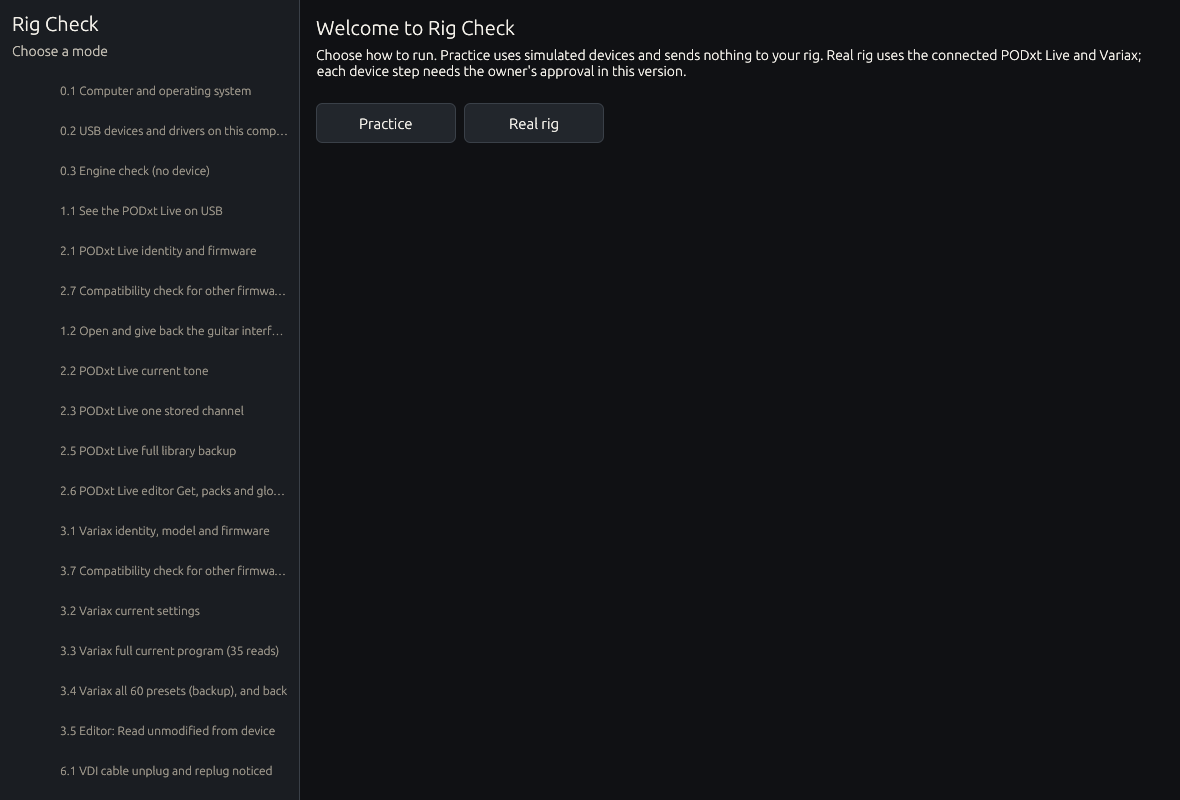
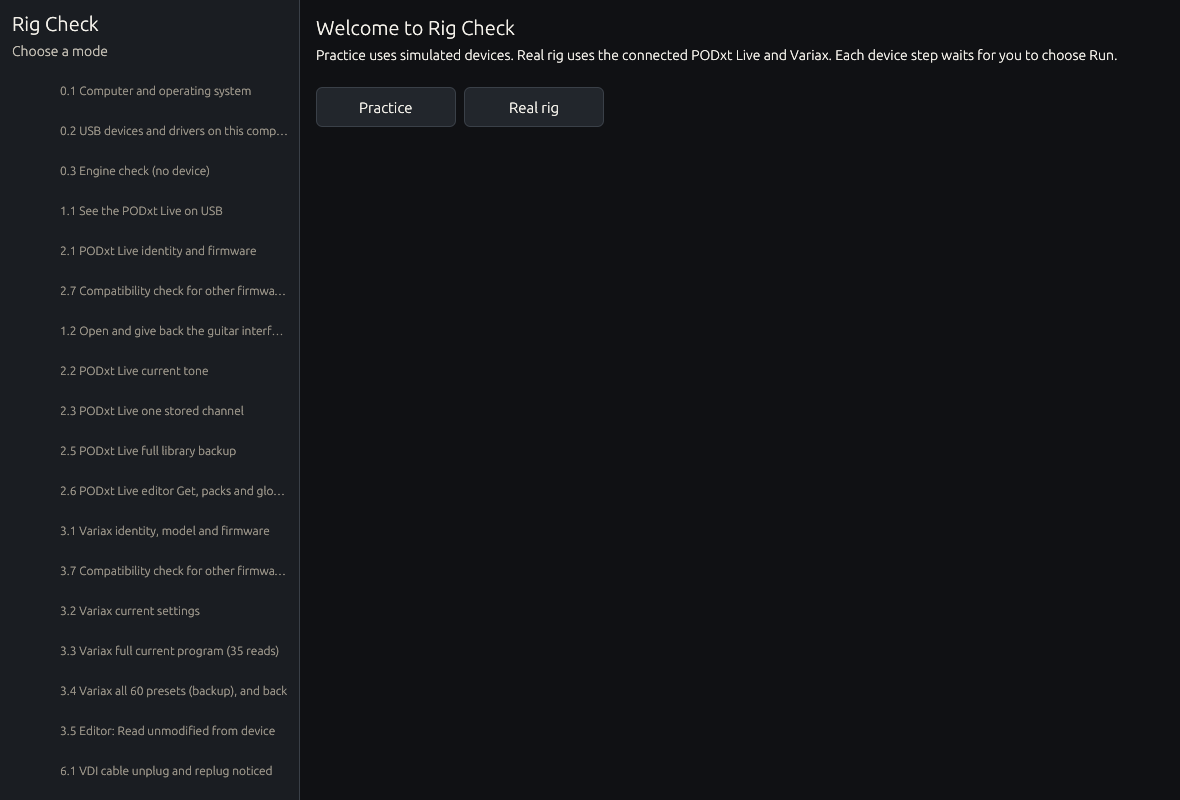
Refresh the Rig Check wizard mockups from the headless renderer (#248)
Redraw the 14 screens with rig-check --mockups from a gui build that
leaves the usb feature off. Thirteen files match the previous bytes.
The choose-mode picture now uses the current Linux sentence. Record
the source revision, the exit before port construction, and the
remaining review gaps.

Changed region(s): [[0.2746, 0.0625, 0.9763, 0.0938], [0.4271, 0.125, 0.4881, 0.1875], [0.3051, 0.125, 0.3661, 0.1875]]

diff --git a/docs/design/rig-check-wizard-review.md b/docs/design/rig-check-wizard-review.md
@@ -1,8 +1,9 @@
 # Rig Check wizard — owner review checklist
 
 [#248](https://github.com/guirossibrum/VariaxWorkbench/issues/248).
-Compared on `c69b903` (2026-11-26). This checklist records the current
-offline wizard. It does not change the screens.
+Redrawn on 2026-11-26 from source
+`e2a0e1a303dc7e1502247cb70105fb4a5a304ba8`. This checkpoint does not change
+Rust sources. It records the redraw. It is not owner approval.
 
 Screen index and the three open layout questions:
 [docs/rig-check/design.md](../rig-check/design.md).
@@ -18,28 +19,94 @@ app-shell delivery. The 2026-11-25 #267 decision releases device and guided
 steps for the owner's first real run. Mark each row below. A merge of the
 wizard code leaves this issue open until those marks exist.
 
-## What the pictures are
+## Provenance
 
-All 14 PNGs are 1180×800. `raster::render` draws them at one pixel per
-point (`src/rig_check/gui/raster.rs`). The window asks for the same logical
-size (`src/rig_check/bin.rs`). The last picture commit is `c7ede9f`
-(2026-11-25). Later commits `f0d255e` (#274) and `11e529d` (#290) changed
-choose-mode and step copy. The PNGs still show the earlier copy.
+| Item | Value |
+| --- | --- |
+| Source revision | `e2a0e1a303dc7e1502247cb70105fb4a5a304ba8`. Rust files are unchanged in this checkpoint. |
+| Date | 2026-11-26 |
+| Host | Linux x86_64 |
+| Compiler | rustc 1.99.1 (58cf8f9c3 2026-10-13) |
+| Build | `cargo build --offline --no-default-features --features gui --bin rig-check` |
+| Shared build path | `/home/grbrum/Documents/Code/VariaxWorkbench/target/shared-builds/lane2` |
+| Enabled features | `gui`, `podxt-table`. The `usb` feature was off for the draw. Recorded in `debug/.fingerprint/variax-workbench-9b142a1e1738d4a5/bin-rig-check.json`. |
+| Binary | `target/shared-builds/lane2/debug/rig-check` at the draw. `ldd` listed no libusb. Dep-info named this worktree (197 paths) and no file from the main checkout. The later `--all-features` test build replaced that executable, so the path links libusb after the suite. The draw fingerprint above still records `gui` and `podxt-table`. |
+| Command | `rig-check --mockups` into an empty directory. Exit 0. About 7.0 seconds. A second empty directory produced the same 14 SHA-256 values. |
+| Inputs | `mockup_states()` in `src/rig_check/gui/mod.rs`. Synthetic step records, the fixed save-notice strings, and the summary time `2026-11-25 22:05:00 UTC`. No device, capture, or private report. |
+| Previous bytes | All 14 files were last committed in `c7ede9f`. Thirteen of this redraw match those bytes. `01-choose-mode.png` changed (126,069 bytes to 117,625; 18,255 pixels differ). |
 
-`01-choose-mode.png` says Practice "sends nothing to your rig" and that each
-device step "needs the owner's approval in this version." Current Linux
-source says: "Practice uses simulated devices. Real rig uses the connected
-PODxt Live and Variax. Each device step waits for you to choose Run."
-Windows and a Mac build without USB support use their own computer-check
-sentences. Those three sentences have no picture.
+All 14 PNGs are 1180×800, 8-bit RGBA. `raster::render` draws them at one
+pixel per point (`src/rig_check/gui/raster.rs`). The window asks for the
+same logical size (`src/rig_check/bin.rs`).
 
-Step bodies for 0.2 and 1.2, and the title and SEE line for 6.2, also
-changed in `11e529d`. None of the 14 pictures is that card.
+SHA-256 of this redraw, identical across the two runs:
 
-Most pictures are drawn with `focus_armed = false`, so the focus ring is
-absent. `11-step-result.png` leaves focus armed, and Continue is the
-highlighted control. Keyboard defaults below come from the headless tests,
-which press keys on a live widget tree.
+| File | SHA-256 |
+| --- | --- |
[14 lines of base64/hex data omitted]
+
+`01-choose-mode.png` now reads: "Practice uses simulated devices. Real rig
+uses the connected PODxt Live and Variax. Each device step waits for you to
+choose Run." The `c7ede9f` file said Practice "sends nothing to your rig"
+and that each device step "needs the owner's approval in this version."
+The buttons remain Practice and Real rig. `mockup_states` sets
+`focus_armed` false, so the picture has no focus ring.
+
+This Linux binary contains that Linux sentence. It does not contain the
+Windows sentence "This computer runs computer-only checks." or the Mac
+sentence "This Mac runs computer-only checks." Those are `cfg!` branches in
+`Wizard::central`.
+
+`05-running.png` shows Elapsed 00:02. `06-listening.png` shows Elapsed 00:02
+and GET READY 8 s. Both runs matched those digits and matched the `c7ede9f`
+bytes. The digits come from `Instant::now()` at state construction, then
+whole seconds when that screen is rastered (`src/rig_check/gui/mod.rs`).
+A draw that reaches those screens on a different whole second would change
+those two files.
+
+## Exit before port construction
+
+`main` calls `options()` first (`src/rig_check/bin.rs`). With `feature =
+"gui"`, the `--mockups` arm inside `options()` calls `write_mockups` and
+then `std::process::exit(0)`:
+
+```rust
+"--mockups" => {
+    let dir = PathBuf::from(args.next().ok_or(USAGE)?);
+    for path in rig_check::gui::write_mockups(&dir)? {
+        println!("{}", path.display());
+    }
+    std::process::exit(0);
+}
+```
+
+That exit is the end of the process. `RealPort::new` runs only on the paths
+that continue after `options()` returns: `window()` (the native window,
+when `--text` is absent) and the text path in `main`. Those are the only
+`RealPort::new` call sites in `bin.rs` (the `window` closure and the text
+path). `eframe::run_native` is in `window()` only.
+
+`write_mockups` (`src/rig_check/gui/mod.rs`) calls `mockup_states`,
+`raster::render`, and `save_new`. The files under `src/rig_check/gui/` do
+not name `RealPort`, `FileSource`, `rusb`, or a USB open. `raster::render`
+builds an `egui::Context` and tessellates at 1.0. `RealPort::new`
+(`src/rig_check/port.rs`) is the constructor that, outside tests, installs
+`RootFs { root: "/" }`. The mockup path does not call it. With the `usb`
+feature off, the `UsbInterfaceLink` field on `RealPort` is not compiled
+(`cfg(all(feature = "usb", not(target_os = "macos")))`).
 
 ## How to mark a row
 
@@ -51,23 +118,39 @@ screenshot. Do not commit those screenshots.
 
 | # | Criterion | Evidence on this head | Still needed | Mark |
 | --- | --- | --- | --- | --- |
-| 1 | Choose Practice or Real rig, with no mode stored until a choice | `01-choose-mode.png`. Source focuses **Practice**, so Enter selects Practice. The mode field stays empty until that press. | Private screenshot of the current Linux sentence, and of the Mac and Windows sentences. Decide whether Enter-on-Practice is an acceptable keyboard default. | |
-| 2 | Start notice: Quit focused, Accept and continue as the other choice. Enter quits. | `02-start-notice.png` shows Quit and Accept and continue. Test `the_start_notice_defaults_to_quit_and_save_needs_the_exact_text` presses Enter and receives `Reply::Accept(false)`. A closed window also refuses the start. | Private screenshot of the focus ring on Quit. The committed PNG hides it. | |
+| 1 | Choose Practice or Real rig, with no mode stored until a choice | `01-choose-mode.png` from this redraw shows the Linux sentence in Provenance. Source focuses **Practice**, so Enter selects Practice. The mode field stays empty until that press. | Private screenshot of the focus ring. The Mac and Windows sentences have no picture: they are compile-time branches, and this binary is Linux. Decide whether Enter-on-Practice is an acceptable keyboard default. | |
+| 2 | Start notice: Quit focused, Accept and continue as the other choice. Enter quits. | `02-start-notice.png` shows Quit and Accept and continue. Byte-identical to `c7ede9f`. Test `the_start_notice_defaults_to_quit_and_save_needs_the_exact_text` presses Enter and receives `Reply::Accept(false)`. A closed window also refuses the start. | Private screenshot of the focus ring on Quit. The committed PNG hides it (`focus_armed` is false). | |
 | 3 | Every step shows its card and waits. Nothing starts the next step by itself. | Card buttons are Skip (focused), Run or Start, Stop the run, and Back when a prior result exists. Enter skips (`the_step_card_shows_its_sections_and_enter_skips`). R runs, Q stops (`keyboard_shortcuts_run_and_stop`). A closed window skips. Practice (`the_channel_operator_runs_practice_mode_from_another_thread`) runs 35 cards and 35 results, and the runner waits at each result. | Private screenshot of a step card with Skip focused. | |
-| 4 | Step card sections: What it does, What you'll see and hear, Risk, with the gate and the steps it needs | `03-step-card-read.png` (step 1.1) and `04-step-card-live.png`. The same test looks for those three headings plus SEE and HEAR. Risk colour follows the level: read and none use the pass green, live uses amber, save uses the danger colour. The word is also on the card. | Owner look at 03 and 04. Card copy for 0.2, 1.2 and 6.2 is newer than the pictures. | |
+| 4 | Step card sections: What it does, What you'll see and hear, Risk, with the gate and the steps it needs | `03-step-card-read.png` (step 1.1) and `04-step-card-live.png`. Both match `c7ede9f` and the current `mockup_states` output. The same test looks for those three headings plus SEE and HEAR. Risk colour follows the level: read and none use the pass green, live uses amber, save uses the danger colour. The word is also on the card. | Owner look at 03 and 04. Cards for 0.2, 1.2 and 6.2 are not among the 14 states, so those bodies are still unpictured. | |
 | 5 | HEAR and SEE at 34 logical points, readable from the guitar | `pub const BIG: f32 = 34.0` in `src/rig_check/gui/mod.rs`. The theme scales logical points by `pixels_per_point`. The pictures are 1×, so 34 points is 34 pixels there. | Private laptop screenshot and private Retina screenshot, from the playing position. No wizard test sets `pixels_per_point` to 2. | |
-| 6 | Running screen: current action, count, elapsed time, Stop, and the "leave the controls alone" notice | `05-running.png` shows step 3.3, "12 of 35 reads", elapsed time and Stop. The sidebar word is RUN. Test `running_shows_latest_action_count_time_and_playing_notice` checks the count, elapsed time, the controls notice, and 15 s / 6 s / 0 s left. | Private screenshot while a count is moving, if the owner wants motion as well as the still picture. | |
-| 7 | Get-ready screen before a physical action. The next step still has its own card. | `06-listening.png`. Design notes in [design.md](../rig-check/design.md). `prepare_action` focuses **OK**. Enter starts the countdown. Skip and Stop are the other buttons. A closed window returns Stop. Detecting the movement can finish the current action. The following step still arrives as its own card. | Owner decision on OK-as-Enter. The design notes say focus starts on Skip. This screen focuses OK. Change belongs in `src/rig_check/gui/mod.rs`. | |
-| 8 | Didn't see it: Skip focused, Try again, Stop | `07-not-seen.png`. `not_seen` focuses Skip. A closed window returns Stop. | Private screenshot with Skip focused. | |
-| 9 | Listening question: Yes, No, Not sure focused, optional note, and the byte-check lines | `08-listening-question.png` is the A/B drop-D question. `question` focuses Not sure. A closed window answers Not sure. | Private screenshot with Not sure focused. | |
-| 10 | Save notice names the exact slot and the backup that protects it. Save stays off until the confirmation matches. Skip is the default. | `09-save-notice.png`: slot "Spank 1 (flash slot 14)", backup step 3.4, file `variax-library/14-Spank-1.bin`, first 12 hex characters of the SHA-256. The type-in line repeats `STORE VARIAX Spank 1`. Enter sends `Reply::Typed(None)` in the start/save test. Source enables Save only when the field equals the confirmation. | Private screenshot of Skip focused, of Save disabled, and of Save enabled after the exact text. The headless test does not press a wrong string and then the exact string. | |
-| 11 | After a step, the result shows the outcome and the SEE values. Continue is focused and returns to the next card, which still waits for Run. Different… records the displayed text. | `11-step-result.png` and `14-display-difference.png`. Practice asserts the SEE lines, Continue and Stop, and that Enter continues. `different_opens_a_field_and_enter_records_exact_text` checks the field. A reported difference fails the step. | Private screenshot of Continue focused, and of the difference field. | |
+| 6 | Running screen: current action, count, elapsed time, Stop, and the "leave the controls alone" notice | `05-running.png` shows step 3.3, "12 of 35 reads", Elapsed 00:02 and Stop. Byte-identical to `c7ede9f`. The sidebar word is RUN. Test `running_shows_latest_action_count_time_and_playing_notice` checks the count, elapsed time, the controls notice, and 15 s / 6 s / 0 s left. | Private screenshot while a count is moving, if the owner wants motion as well as the still picture. The still clock is whole seconds from the draw, as recorded above. | |
+| 7 | Get-ready screen before a physical action. The next step still has its own card. | `06-listening.png` shows GET READY 8 s and Elapsed 00:02. Byte-identical to `c7ede9f`. Design notes in [design.md](../rig-check/design.md). `prepare_action` focuses **OK**. Enter starts the countdown. Skip and Stop are the other buttons. A closed window returns Stop. Detecting the movement can finish the current action. The following step still arrives as its own card. | Owner decision on OK-as-Enter. The design notes say focus starts on Skip. This screen focuses OK. A change belongs in `src/rig_check/gui/mod.rs`. This checkpoint does not make it. | |
+| 8 | Didn't see it: Skip focused, Try again, Stop | `07-not-seen.png`. Byte-identical to `c7ede9f`. `not_seen` focuses Skip. A closed window returns Stop. | Private screenshot with Skip focused. | |
+| 9 | Listening question: Yes, No, Not sure focused, optional note, and the byte-check lines | `08-listening-question.png` is the A/B drop-D question. Byte-identical to `c7ede9f`. `question` focuses Not sure. A closed window answers Not sure. | Private screenshot with Not sure focused. | |
+| 10 | Save notice names the exact slot and the backup that protects it. Save stays off until the confirmation matches. Skip is the default. | `09-save-notice.png`: slot "Spank 1 (flash slot 14)", backup step 3.4, file `variax-library/14-Spank-1.bin`, first 12 hex characters of the SHA-256. The type-in line repeats `STORE VARIAX Spank 1`. Byte-identical to `c7ede9f`. Enter sends `Reply::Typed(None)` in the start/save test. Source enables Save only when the field equals the confirmation. | Private screenshot of Skip focused, of Save disabled, and of Save enabled after the exact text. The headless test does not press a wrong string and then the exact string. | |
+| 11 | After a step, the result shows the outcome and the SEE values. Continue is focused and returns to the next card, which still waits for Run. Different… records the displayed text. | `11-step-result.png` and `14-display-difference.png`. Byte-identical to `c7ede9f`. Practice asserts the SEE lines, Continue and Stop, and that Enter continues. `different_opens_a_field_and_enter_records_exact_text` checks the field. A reported difference fails the step. | Private screenshot of Continue focused, and of the difference field. | |
 | 12 | Progress uses the words PASS, FAIL, SKIP, STOP, N/A and RUN | Visible on `03`, `05`, `10` and `11`. `outcome_tag` in `src/rig_check/gui/mod.rs`. Colour repeats the word. | Owner look at one PASS, one SKIP and the RUN row together. | |
-| 13 | Summary: rig state, counts, result preview, Save report… | `10-summary-preview.png`: "Rig Check finished", the rig paragraph, "10 passed · 0 failed · 1 skipped", the report path, Hide results, Save report…, and one preview line for step 2.3. The preview lists only that line because only the 2.3 fixture has a start time. The Practice test is the full-run evidence: 35 passed. Summary focus starts on the preview button. Save report… is the other button. In tests the save dialog returns "Saving is not available in tests." | Private screenshot of a finished Practice summary whose preview lists the run. The Practice test does not draw `Prompt::Done`. | |
-| 14 | Back reviews an earlier result and the accepted start notice. Return resumes the pending card and sends nothing. | `12-review-result.png`, `13-review-start.png`. Tests `backspace_reviews_previous_results_and_c_resumes_the_same_card`, `first_card_back_shows_the_already_accepted_start_notice`, `review_shows_the_start_notice_accepted_for_this_mac`, and `clicking_a_finished_step_replays_it_without_continuing_the_active_result`. | Private screenshot of Back and of Return to current step. | |
+| 13 | Summary: rig state, counts, result preview, Save report… | `10-summary-preview.png`: "Rig Check finished", the rig paragraph, "10 passed · 0 failed · 1 skipped", the report path, Hide results, Save report…, and one preview line for step 2.3. Byte-identical to `c7ede9f`. The preview lists only that line because only the 2.3 fixture has a start time. The Practice test is the full-run evidence: 35 passed. Summary focus starts on the preview button. Save report… is the other button. In tests the save dialog returns "Saving is not available in tests." | Private screenshot of a finished Practice summary whose preview lists the run. The Practice test does not draw `Prompt::Done`. | |
+| 14 | Back reviews an earlier result and the accepted start notice. Return resumes the pending card and sends nothing. | `12-review-result.png`, `13-review-start.png`. Byte-identical to `c7ede9f`. Tests `backspace_reviews_previous_results_and_c_resumes_the_same_card`, `first_card_back_shows_the_already_accepted_start_notice`, `review_shows_the_start_notice_accepted_for_this_mac`, and `clicking_a_finished_step_replays_it_without_continuing_the_active_result`. | Private screenshot of Back and of Return to current step. | |
 | 15 | Laptop presentation | The wizard's headless path draws one logical size, 1180×800, at 1 pixel per point. The app shell has a separate headless matrix at 1120×760 and 720×640 (`src/app/shell/tests.rs`). That matrix does not open Rig Check. Sidebar titles already truncate at 1180×800. | Owner screenshots of the 14 states in the real window on the laptop. A 1120×760 or 720×640 wizard check belongs in `src/rig_check/gui/tests.rs`. | |
 | 16 | Retina presentation | Shared theme sizes are logical points. Body-canvas and tuning tests in `src/shared/ui/tests.rs` run at `pixels_per_point` 1 and 2. The shell footer test does the same. `raster::render` tessellates at 1.0 and never sets `pixels_per_point`. | Owner screenshots on a Retina display. A wizard test at `pixels_per_point` 2 belongs in `src/rig_check/gui/tests.rs`. | |
-| 17 | Screenshots of each state, kept for this review | The 14 repository PNGs are headless draws through `c7ede9f`. They are the pictures to review, with the copy gaps in rows 1 and 4. | Fresh headless redraw from current master, then private owner screenshots of each state including the focus ring. Redraw and PNG replacement belong with `src/rig_check`. | |
+| 17 | Screenshots of each state, kept for this review | The 14 repository PNGs are this redraw. Thirteen match `c7ede9f`. `01-choose-mode.png` is the current Linux sentence. | Private owner screenshots of each state, including the focus ring. Mac and Windows sentences, cards 0.2, 1.2 and 6.2, and the #297 continuation screens are outside this set. | |
+
+## Remaining gaps
+
+- Owner design approval is still pending. This redraw does not supply it.
+- The focus ring is hidden on 13 of the 14 pictures. Only `11-step-result.png` sets `focus_armed`.
+- The Mac and Windows choose-mode sentences have no picture.
+- Step cards 0.2 ("USB devices and drivers on this computer"), 1.2 ("Open and give back the guitar interface") and 6.2 ("Rig back to its starting state and connections released") are not among the 14 states.
+- Laptop logical sizes and a Retina `pixels_per_point` of 2 are not drawn.
+- Choose-mode still focuses Practice. The get-ready screen still focuses OK, while the design notes say the safe answer starts with focus. Both stay undecided. This checkpoint does not change them.
+- Native-window screenshots stay private owner copies.
+- #297 continuation screens (Resume, Start new, Open last report) are outside this set. `write_mockups` still emits the same 14 names.
+- The clocks on `05-running.png` and `06-listening.png` are whole seconds from the draw. This draw matched the previous bytes. They are not a frozen time fixture.
+- [design.md](../rig-check/design.md) does not name revision `e2a0e1a`. The provenance table above is the record for this redraw.
+
+The three open questions already in design.md (progress list, evidence line,
+Open folder) stay unanswered here.
 
 ## Headless tests read for this comparison
 
@@ -87,27 +170,22 @@ In `src/rig_check/gui/tests.rs`:
 - `clicking_a_finished_step_replays_it_without_continuing_the_active_result`
 - `technical_details_are_hidden_until_opened`
 
-These tests were read at `c69b903`. This checkpoint did not re-run them.
+Re-run on source `e2a0e1a` with Rust unchanged:
+`cargo test --offline --all-features` passed 1,152 tests, 0 failed, 5 ignored
+(library 755 passed and 2 ignored, `variax-reso5-test` 73 passed and 3 ignored,
+`variax-workbench-gui` 297 passed, integration 27 passed).
+`cargo fmt --all -- --check` and
+`cargo clippy --offline --all-features --all-targets -- -D warnings` passed.
+`crates/line6-devices` and `tools/variax-probe` were not edited, so their
+separate suites were not run.
 
-## Outside Lane 2
+## Outside this checkpoint
 
 Lane 2 owns `docs/design/`, `src/shared/ui/`, `assets/ui/`, and the visuals
 of `src/app/shell/` after #213. The wizard implementation is
-`src/rig_check/`. Reported for that owner, with no edit here:
+`src/rig_check/`. This checkpoint does not edit it. Still with that owner:
 
-- Redraw the 14 PNGs from current master so `01-choose-mode.png` and the
-  0.2, 1.2 and 6.2 copy match `11e529d`. Add pictures for the Mac and
-  Windows choose-mode sentences.
-- `prepare_action` focuses OK. The design notes say the safe answer starts
-  with focus.
-- Choose-mode focuses Practice.
-- Extend `mockups_render_headless`, or a neighbour test, to compare a fresh
-  1180×800 render with the committed PNG text, to require the exact save
-  confirmation before Save enables, to draw the summary and look for
-  "Save report…", and to run the wizard at laptop logical sizes and at
-  `pixels_per_point` 2.
-- [design.md](../rig-check/design.md) still says the pictures were drawn from
-  the running code, which was true at `c7ede9f`.
-
-The three open questions already in design.md (progress list, evidence line,
-Open folder) stay unanswered here.
+- Pictures for the Mac and Windows choose-mode sentences, and for cards 0.2, 1.2 and 6.2.
+- The #297 continuation screens.
+- The OK and Practice focus decisions above.
+- Extending `mockups_render_headless`, or a neighbour test, to compare a fresh 1180×800 render with the committed PNG text, to require the exact save confirmation before Save enables, to draw the summary and look for "Save report…", and to run the wizard at laptop logical sizes and at `pixels_per_point` 2.

diff --git a/docs/roadmap.md b/docs/roadmap.md
@@ -21,7 +21,7 @@ GitHub issues and the [project board](https://github.com/users/guirossibrum/proj
 
 - [ ] Rig Check audio steps 8.2-8.5 (test tone, 10 s recording with levels, clipping, xruns and actual rate, latency, one clip per test model) are designed in [audio-steps.md](rig-check/audio-steps.md). The code path stops before any stream is opened and every step shows "not available in this version — needs the owner's audio approval"; a practice-run test checks that. Implementation waits for the owner's separate approval of audio streams. [#265](https://github.com/guirossibrum/VariaxWorkbench/issues/265).
 
-- [ ] Rig Check wizard window (`rig-check` built with `gui`): start notice, step cards with What it does / What you'll see and hear / Risk, large HEAR and SEE text, listening windows, Try again / Skip, A/B questions, the save notice with typed confirmation, progress and the summary with report preview and Save report. Fourteen headless mockups at 1180×800 are in [docs/rig-check/mockups](rig-check/mockups/), last drawn at `c7ede9f` ([design notes](rig-check/design.md)). The current-master comparison and the owner review checklist are in [docs/design/rig-check-wizard-review.md](design/rig-check-wizard-review.md). **Owner approval of the design is pending.** [#248](https://github.com/guirossibrum/VariaxWorkbench/issues/248).
+- [ ] Rig Check wizard window (`rig-check` built with `gui`): start notice, step cards with What it does / What you'll see and hear / Risk, large HEAR and SEE text, listening windows, Try again / Skip, A/B questions, the save notice with typed confirmation, progress and the summary with report preview and Save report. Fourteen headless mockups at 1180×800 are in [docs/rig-check/mockups](rig-check/mockups/), redrawn from source `e2a0e1a` on 2026-11-26 (thirteen files match the `c7ede9f` bytes; `01-choose-mode.png` shows the current Linux sentence). [Design notes](rig-check/design.md). The current-master comparison and the owner review checklist are in [docs/design/rig-check-wizard-review.md](design/rig-check-wizard-review.md). **Owner approval of the design is pending.** [#248](https://github.com/guirossibrum/VariaxWorkbench/issues/248).
 
 - [ ] macOS offline alpha: build and inspect the universal disk image, then verify both apps launch, the Finder layout and file dialogs, and Rig Check computer checks on Intel Catalina and current Apple silicon. Live device support is a separate task. [Packaging and validation](macos-package.md) · [#273](https://github.com/guirossibrum/VariaxWorkbench/issues/273).
 
